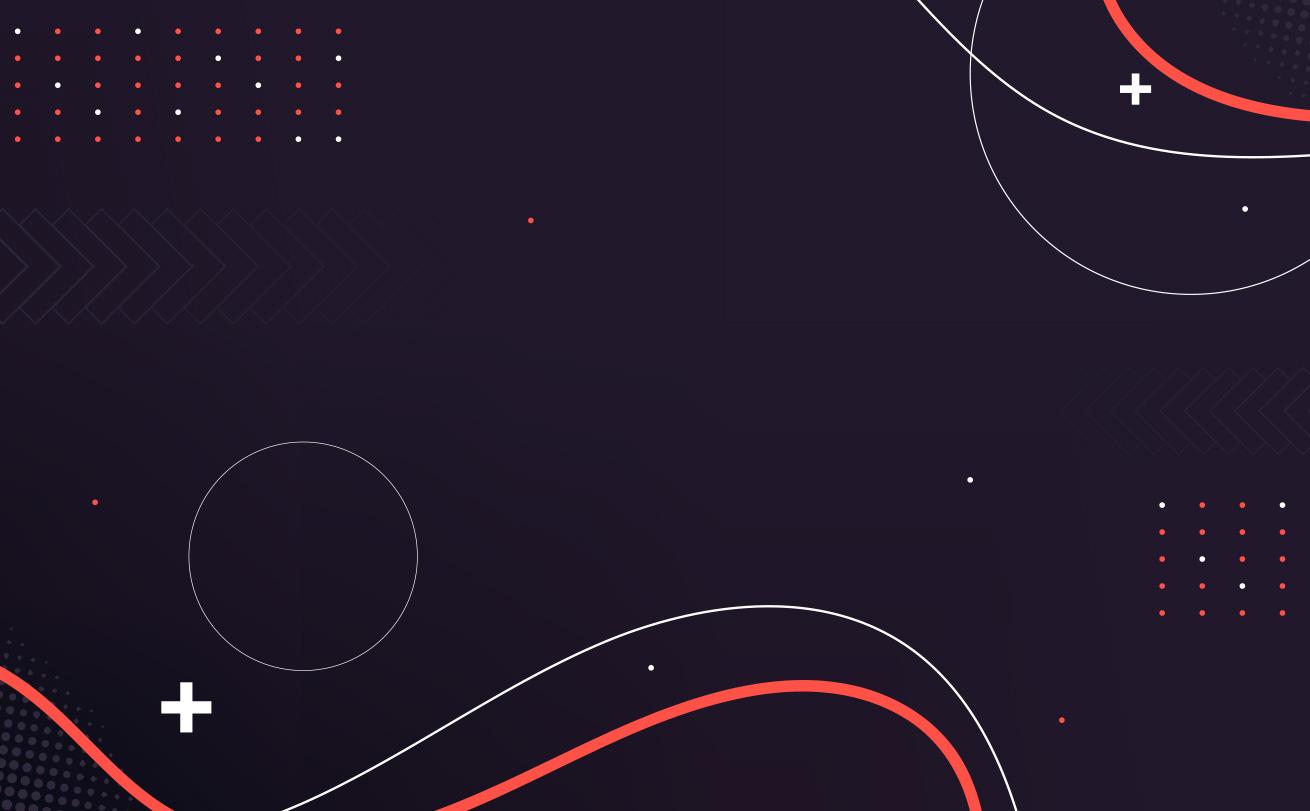
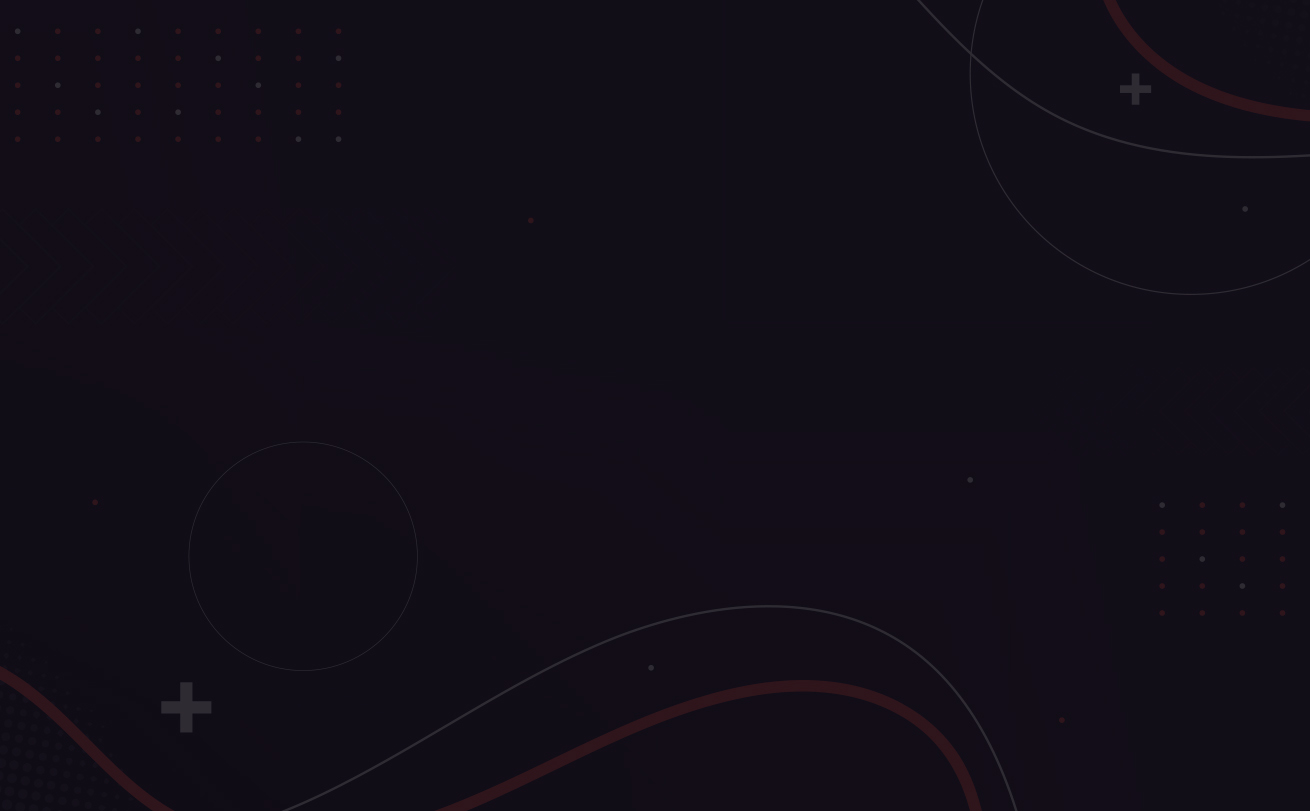
Updating third section

diff --git a/resources/views/frontend/homepage/index.blade.php b/resources/views/frontend/homepage/index.blade.php
@@ -32,7 +32,7 @@
                     <a href="#"><img src="{{ asset('frontend/img/logo/dark.png') }}" alt="" /></a>
                 </div>
                 <div class="iknow_tm_button btn-outline">
-                    <a href="{{ asset('storage/downloads/Curriculam_Vitae-SE_Ashikur.pdf') }}">Download CV</a>
+                    <a href="{{ asset('storage/downloads/Curriculam_Vitae-SE_Ashikur.pdf') }}"><i class="fa-solid fa-cloud-arrow-down"></i> Download CV</a>
                 </div>
             </div>
         </div>
@@ -77,10 +77,11 @@
             <!-- SOCIAL -->
             <div class="social_list">
                 <ul>
-                    <li><a href="#"><img class="svg" src="{{ asset('frontend/img/svg/social/facebook-2.svg') }}" alt="" /></a></li>
-                    <li><a href="#"><img class="svg" src="{{ asset('frontend/img/svg/social/twitter-2.svg') }}" alt="" /></a></li>
-                    <li><a href="#"><img class="svg" src="{{ asset('frontend/img/svg/social/youtube-3.svg') }}" alt="" /></a></li>
-                    <li><a href="#"><img class="svg" src="{{ asset('frontend/img/svg/social/instagram-2.svg') }}" alt="" /></a></li>
+                    <li><a href="https://www.freelancer.com/u/rexbdsoft" target="_blank"><img class="svg" src="{{ asset('frontend/img/svg/social/freelancer.svg') }}" alt="" /></a></li>
+                    <li><a href="https://www.facebook.com/ashikur.rahaman99/" target="_blank"><img class="svg" src="{{ asset('frontend/img/svg/social/facebook-2.svg') }}" alt="" /></a></li>
+                    <li><a href="https://www.linkedin.com/in/ashikur-rahaman-bd/" target="_blank"><img class="svg" src="{{ asset('frontend/img/svg/social/linkedin-2.svg') }}" alt="" /></a></li>
+                    <li><a href="https://www.youtube.com/channel/UCmaF9szqoFgt_gruJhP1hjw" target="_blank"><img class="svg" src="{{ asset('frontend/img/svg/social/youtube-3.svg') }}" alt="" /></a></li>
+                    
                 </ul>
             </div>
             <!-- /SOCIAL -->
@@ -135,7 +136,7 @@
             <!-- HERO -->
             <div class="iknow_tm_hero_fifth" id="home">
                 <div class="background">
-                    <div class="image" data-img-url="{{ asset('frontend/img/hero/10.jpg') }}"></div>
+                    <div class="image" data-img-url="{{ asset('frontend/img/hero/10_main.jpg') }}"></div>
                     <div class="overlay"></div>
                 </div>
                 <div class="content">
@@ -173,7 +174,7 @@
                                     </li>
                                     <li>
                                         <h3>Mail</h3>
-                                        <span>ceo@webrelu.com</span>
+                                        <span>ceo@webrelu.com</span><br>
                                     </li>
                                     <li>
                                         <h3>Phone</h3>
@@ -194,7 +195,7 @@
                     <div class="right">
                         <div class="iknow_tm_main_title">
                             <span>About Me</span>
-                            <h3>Software Engineer</h3>
+                            <h3>Software Developer</h3>
                         </div>
                         <div class="bigger_text">
                             <p>A Passionate UI/UX Designer and Full-Stack Web Developer based In Dhaka, BD</p>
@@ -203,7 +204,7 @@
                             <p>Hi! My name is Ashikur Rahaman. I am capable to analyze your business and can provide anykind of possible iT service from my side, I'm very passionate and dedicated to my work. With 6+ years experience as a professional Project Lead, I have acquired the skills and knowledge necessary to make your dream project as success as you are looking for.</p>
                         </div>
                         <div class="iknow_tm_button">
-                            <a href="{{ asset('storage/downloads/Curriculam_Vitae-SE_Ashikur.pdf') }}">Download CV</a>
+                            <a href="#contact">Contact Now</a>
                         </div>
                     </div>
                 </div>
@@ -215,7 +216,7 @@
                 <div class="iknow_tm_resume">
                     <div class="iknow_tm_main_title">
                         <span>Resume</span>
-                        <h3>Combination of Skill &amp; Experience</h3>
+                        <h3>Summary of Education,Skill &amp; Experience</h3>
                     </div>
                     <div class="resume_inner">
                         <div class="left">
@@ -229,15 +230,15 @@
                                         <div class="list_inner">
                                             <div class="short">
                                                 <div class="job">
-                                                    <h3>Cognitive Sciences</h3>
-                                                    <span>University of Maine</span>
+                                                    <h3>Bachelor of Science in Software Engineering</h3>
+                                                    <span>Daffodil International University</span>
                                                 </div>
                                                 <div class="year">
-                                                    <span>2018 - 2020</span>
+                                                    <span>2018 - 2022</span>
                                                 </div>
                                             </div>
                                             <div class="text">
-                                                <p>The goal of cognitive science is to understand the principles of intelligence with the hope that this will lead to better comprehension.</p>
+                                                <p>Software engineering is important because specific software is needed in almost every industry, in every business, and for every function. It becomes more important as time goes on – if something breaks within your application portfolio, a quick, efficient, and effective fix needs to happen as soon as possible. My ecademic career taught me lot to understand this all concept in details.</p>
                                             </div>
                                         </div>
                                     </li>
@@ -1016,9 +1017,11 @@
         "Full Stack Web Developer",
         "Passionate Graphics Designer",
         "Professional Business Analyst",
-        "Data Science and Machine Learning Expert"
+        "Data Science and Machine Learning Expert",
+        "Software Architecture",
+        "Team Dedicated Software Developer"
         ],
-        typeSpeed : 90,
+        typeSpeed : 80,
         backSpeed : 20,
         loop : true
     });

diff --git a/resources/views/frontend/lib/layout.blade.php b/resources/views/frontend/lib/layout.blade.php
@@ -5,15 +5,15 @@
 <!--[if (gte IE 9)|!(IE)]><!--><html lang="en"> <!--<![endif]-->
 
 <head>
-
 <meta http-equiv="Content-Type" content="text/html; charset=utf-8" />
-
 <meta name="description" content="Name of your web site">
 <meta name="author" content="Marketify">
-
 <meta name="viewport" content="width=device-width, initial-scale=1, maximum-scale=1">
 
-<title>StylozAshik | Ashikur Rahaman</title>
+{{-- Font awesome icons --}}
+<script src="https://kit.fontawesome.com/3678d09fcb.js" crossorigin="anonymous"></script>
+
+<title>Ashik | Software Developer</title>
 
 <!-- STYLES -->
 <link href="https://fonts.googleapis.com/css2?family=Mulish:ital,wght@0,200;0,300;0,400;0,500;0,600;0,700;0,800;0,900;1,200;1,300;1,400;1,500;1,600;1,700;1,800;1,900&family=Poppins:ital,wght@0,300;0,400;0,500;0,600;0,700;0,800;0,900;1,300;1,400;1,500;1,600;1,700;1,800;1,900&display=swap" rel="stylesheet">
